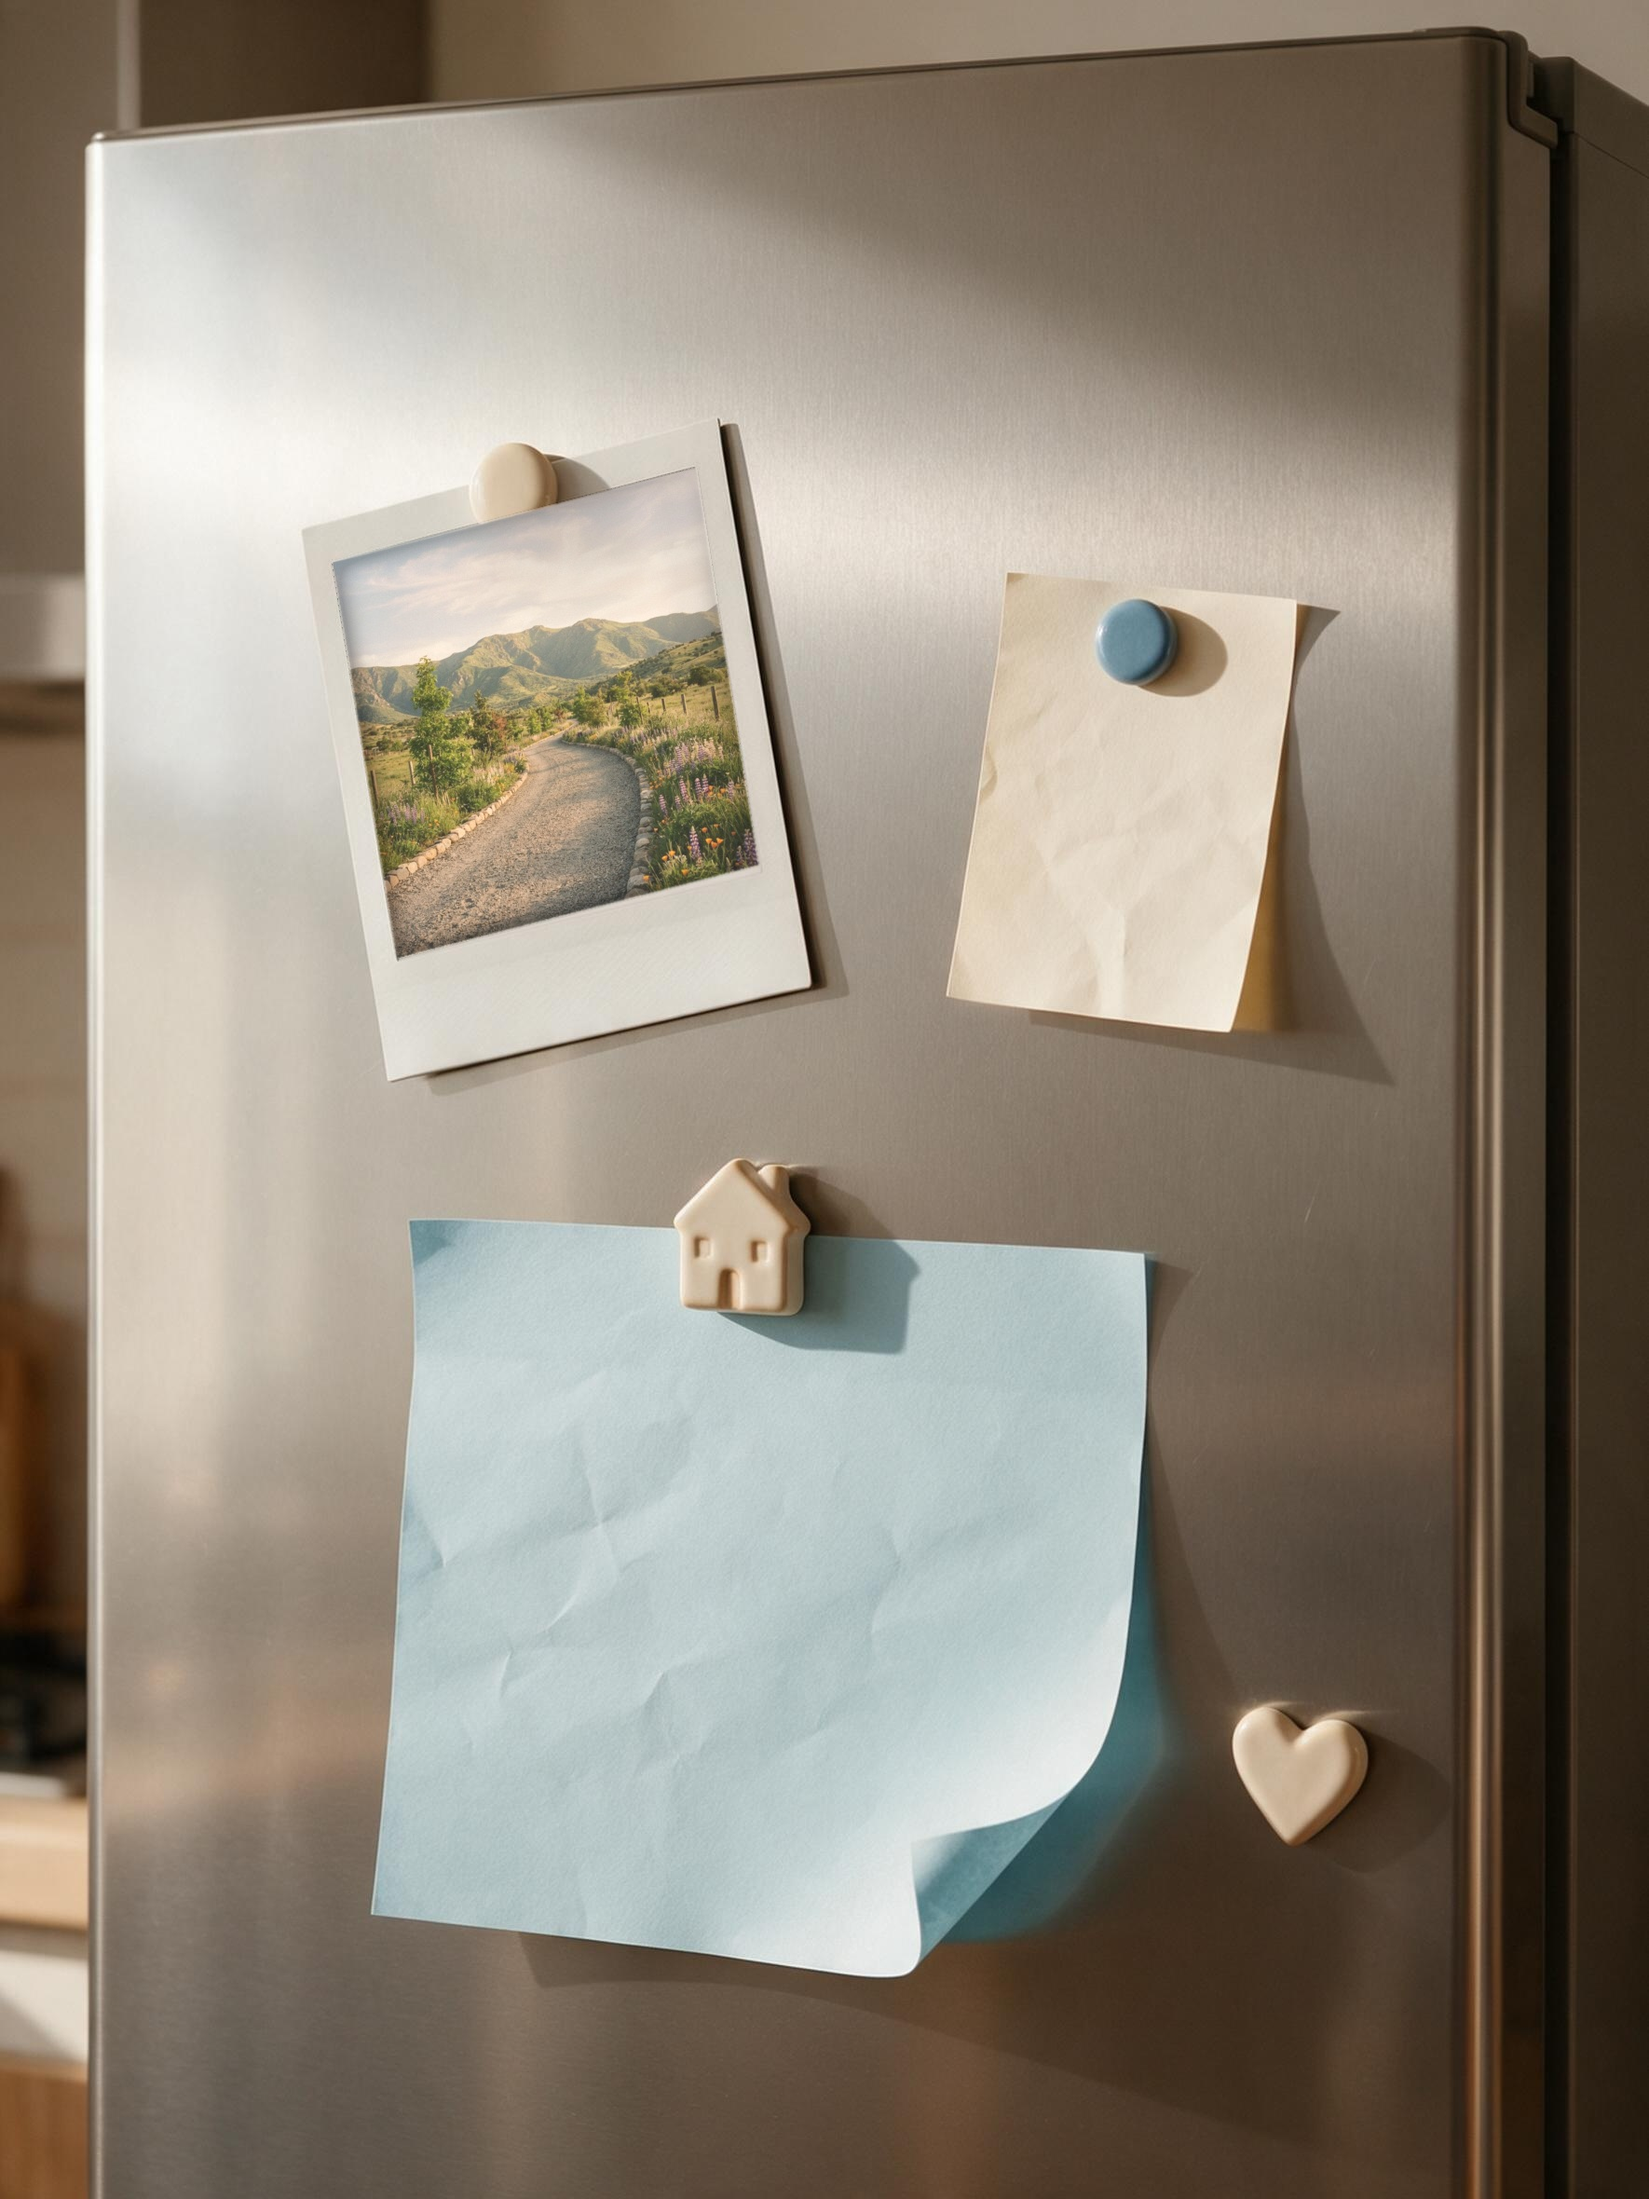
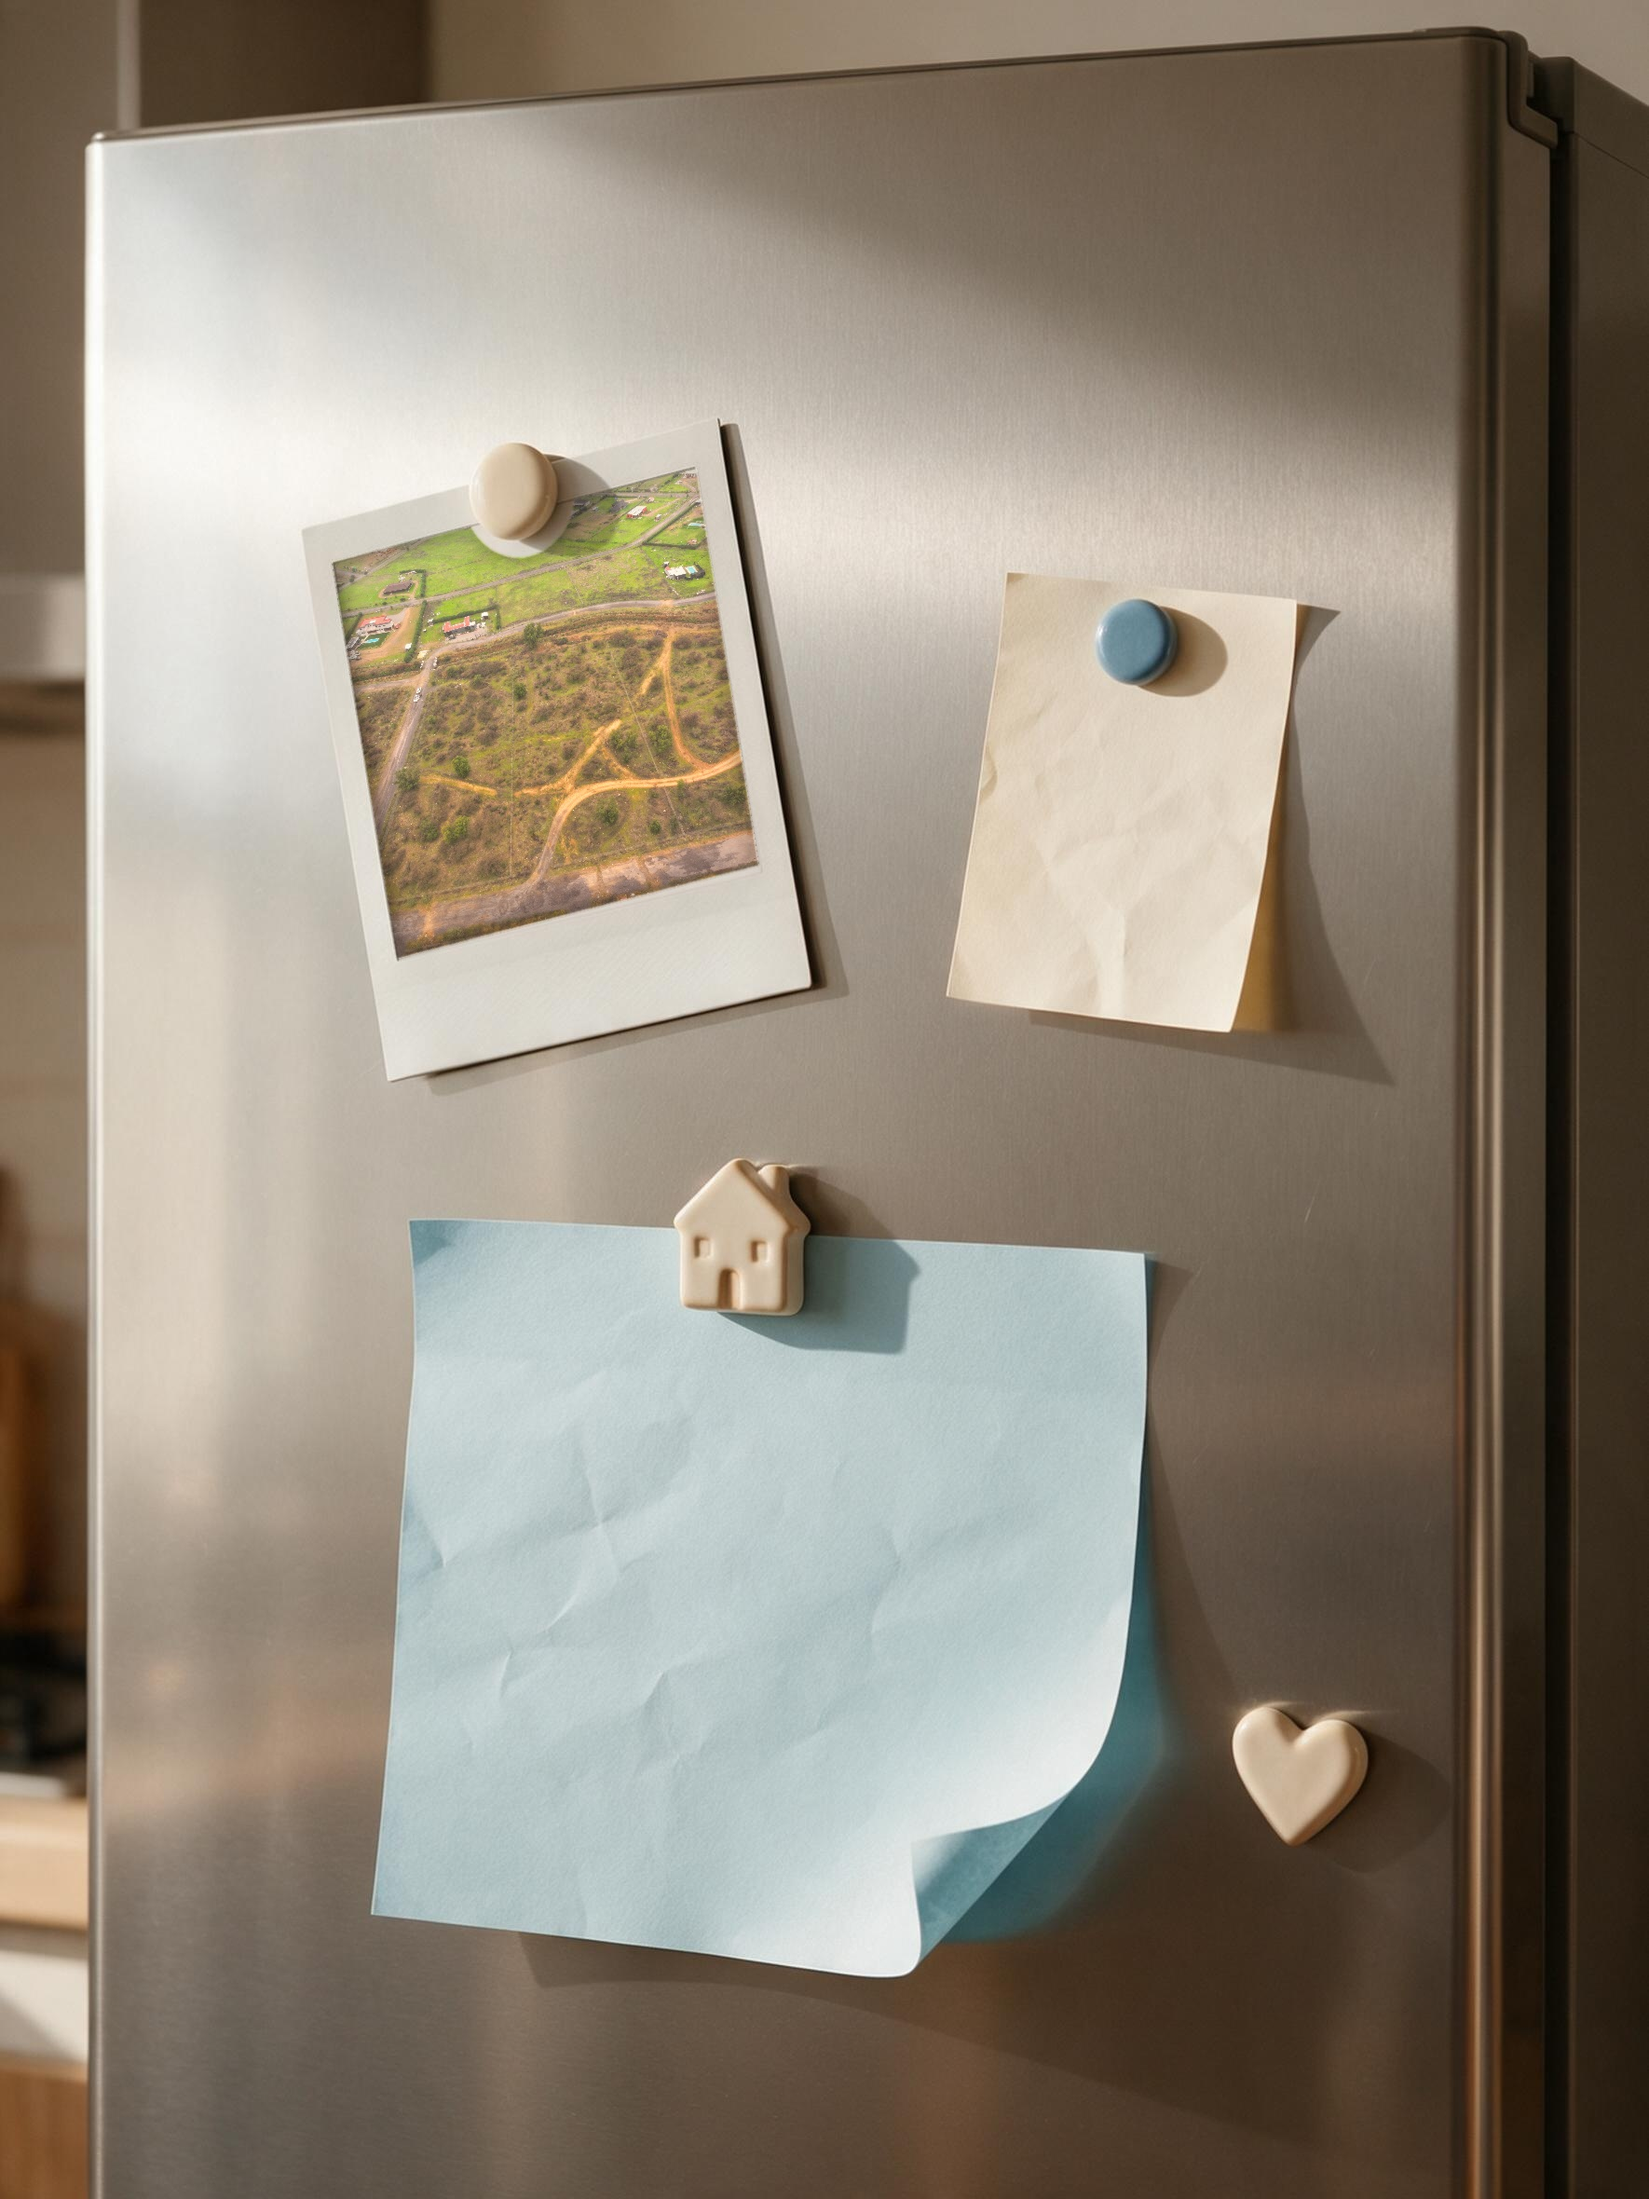
TIERRA CALMA: el iman queda sobre la polaroid, y la copia es la aerea real del dron
Diego: "el boton-iman tiene que quedar sobre la foto polaroid" y "que sea una
foto dron de Tierra Calma".

EL IMAN: su cuerpo se recorta de la mascara y asoma el original. Pero su SOMBRA
no se recorta — si se recortara quedaria un parche de papel blanco con una
sombra encima de la foto, al reves de lo que pasa de verdad. En vez de modelar
esa sombra, la copia HEREDA EL SOMBREADO DEL PROPIO PAPEL: se mide cuanto se
oscurece el papel respecto de su parte mas clara y se le aplica lo mismo. Asi
recibe de una vez el degradado de la escena y la sombra del iman, sin inventar
ninguna luz. Reemplaza al paso anterior de "luz de la escena", que hacia la
mitad del trabajo con el doble de codigo.

LA AEREA: toma DJI_20260807093558_0308_D del rodaje del 07-08 — la parcelacion
con sus deslindes y caminos de ripio y, al fondo, el llano con las casas
vecinas. No es la misma que st-12-10 (0312_D), por R-20, y se gradua con la
misma receta ya aprobada para esa story.

QA: 1 aviso, el deliberado de la slide 2. Re-subida sobre el mismo fileId.

Changed region(s): [[0.1864, 0.2165, 0.4661, 0.4331]]

diff --git a/scripts/tc-polaroid.py b/scripts/tc-polaroid.py
@@ -60,13 +60,25 @@ except Exception:
 
 OCT = pathlib.Path(RAIZ) / "public/assets/tierracalma/oct"
 ESCENA = OCT / "m-refri.jpg"
-# ⚠ `g-acceso` y no `f-fondo`: esta última ya estaba en `st-08-10`, y una foto no
-# se repite entre dos piezas del mismo mes (R-20).
-FOTO = OCT / "g-acceso.jpg"
+# ⭐ Diego, 25-09: *"y que sea una foto dron de Tierra Calma"*. La copia sale del
+# rodaje REAL del 07-08, no de una imagen generada.
+#
+# **La toma: `DJI_20260807093558_0308_D`.** Se eligió entre las 44 porque es la
+# que muestra la parcelación en sí —los deslindes, los caminos de ripio y, al
+# fondo, el llano con las casas vecinas—: es «este es el lugar» en un cuadro.
+# ⚠ No es la misma que `st-12-10`, que usa la `0312_D` (R-20).
+#
+# ⚠ El material del 07-08 es **HLG y sale plano**: sin gradar se ve lavado y
+# grisáceo, que es justo lo que el manual llama «no es el lugar».
+ORIGEN_DRON = pathlib.Path(RAIZ) / "raw/tierracalma/fotos-reales/dron/DJI_20260807093558_0308_D.JPG"
 SALIDA = OCT / "m-refri-foto.jpg"
 
 # Ventana de la polaroid, en orden TL · TR · BR · BL.
 VENTANA = [(356, 602), (748, 501), (815, 930), (425, 1030)]
+# ⭐ El botón-imán va POR ENCIMA de la copia (Diego, 25-09). Su cuerpo se recorta
+# de la máscara para que asome el original; su SOMBRA no se recorta, porque la
+# sombra tiene que caer sobre la foto — ver `sombreado` en `main()`.
+IMAN = {"centro": (556, 527), "radios": (60, 70)}
 
 
 def homografia(destino, origen):
@@ -84,6 +96,24 @@ def homografia(destino, origen):
     return np.linalg.solve(np.array(A, dtype=float), np.array(B, dtype=float))
 
 
+def gradua(im: Image.Image) -> Image.Image:
+    """Saca el HLG plano: contraste, calidez y verde, sin irse a la postal.
+
+    Misma receta que `tc-foto-dron-story.py`, que es la que Diego aprobó para la
+    aérea de `st-12-10`.
+    """
+    from PIL import ImageEnhance
+
+    a = np.clip(np.asarray(im).astype(float) / 255.0, 0, 1)
+    a = a * a * (3 - 2 * a) * 0.45 + a * 0.55       # S suave
+    a[:, :, 0] *= 1.045
+    a[:, :, 2] *= 0.975
+    im = Image.fromarray((np.clip(a, 0, 1) * 255).astype(np.uint8))
+    im = ImageEnhance.Color(im).enhance(1.28)
+    im = ImageEnhance.Contrast(im).enhance(1.10)
+    return ImageEnhance.Sharpness(im).enhance(1.15)
+
+
 def _caja(m: np.ndarray, r: int) -> np.ndarray:
     c = np.cumsum(np.cumsum(np.pad(np.asarray(m, float), ((r + 1, r), (r + 1, r))), 0), 1)
     k = 2 * r + 1
@@ -91,9 +121,11 @@ def _caja(m: np.ndarray, r: int) -> np.ndarray:
 
 
 def main() -> int:
-    for f in (ESCENA, FOTO):
+    for f in (ESCENA, ORIGEN_DRON):
         if not f.exists():
             print(f"✗ Falta {f}")
+            if f is ORIGEN_DRON:
+                print("  El rodaje del dron vive en raw/ y NO viaja en el repo — manual § 7.")
             return 1
     escena = Image.open(ESCENA).convert("RGB")
     W, H = escena.size
@@ -104,7 +136,7 @@ def main() -> int:
     lado_alto = np.hypot(*(np.subtract(VENTANA[3], VENTANA[0])))
     print(f"· ventana: {lado_ancho:.0f} × {lado_alto:.0f} px"
           f" · girada {np.degrees(np.arctan2(VENTANA[1][1] - VENTANA[0][1], VENTANA[1][0] - VENTANA[0][0])):.1f}°")
-    foto = Image.open(FOTO).convert("RGB")
+    foto = gradua(Image.open(ORIGEN_DRON).convert("RGB"))
     fw, fh = foto.size
     objetivo = lado_ancho / lado_alto
     if fw / fh > objetivo:                       # sobra ancho
@@ -143,23 +175,28 @@ def main() -> int:
         for x, y in VENTANA
     ]
     ImageDraw.Draw(mascara).polygon(adentro, fill=255)
+    # ⭐ El CUERPO del imán se recorta de la máscara: así asoma el original y el
+    # botón queda POR ENCIMA de la copia, que es lo que pidió Diego. Su sombra
+    # no se recorta — cae sobre la foto por el paso 4.
+    (ix, iy), (rx, ry) = IMAN["centro"], IMAN["radios"]
+    ImageDraw.Draw(mascara).ellipse([ix - rx, iy - ry, ix + rx, iy + ry], fill=0)
     mascara = mascara.filter(ImageFilter.GaussianBlur(1.1))
     m = np.asarray(mascara).astype(float) / 255.0
 
     capa = np.asarray(capa).astype(float)
     base = np.asarray(escena).astype(float)
 
-    # ── 4 · la luz de la escena, medida sobre el propio marco de la polaroid ─
-    # Se toma la luminancia del papel blanco alrededor de la ventana y se
-    # normaliza: la foto recibe el MISMO degradado que el papel que la sostiene.
+    # ── 4 · la copia HEREDA EL SOMBREADO DEL PAPEL ─────────────────────────
+    # El papel de la polaroid no está iluminado parejo, y además el imán le
+    # proyecta una sombra. En vez de inventar una luz, se mide cuánto se oscurece
+    # el propio papel respecto de su parte más clara y se le aplica lo mismo a la
+    # copia: así la foto recibe **el degradado de la escena y la sombra del imán**
+    # sin tener que modelarlos por separado.
     lum = base @ np.array([0.299, 0.587, 0.114])
-    suave = _caja(lum, 90)
-    anillo = (m > 0.02) & (m < 0.98)
-    del anillo
-    ref = float(np.median(suave[m > 0.5]))
-    luz = np.clip(suave / max(ref, 1e-6), 0.86, 1.14)
-    capa *= luz[:, :, None]
-    print(f"· luz de la escena: {luz[m > 0.5].min():.3f} – {luz[m > 0.5].max():.3f}")
+    papel = float(np.percentile(lum[m > 0.5], 90))
+    sombreado = np.clip(lum / max(papel, 1e-6), 0.55, 1.05)
+    capa *= sombreado[:, :, None]
+    print(f"· papel de referencia {papel:.0f} · sombreado {sombreado[m > 0.5].min():.2f}–{sombreado[m > 0.5].max():.2f}")
 
     # ── 5 · sombra de contacto del marco sobre la copia ─────────────────────
     # El marco está por encima: sombrea el canto de arriba y el de la izquierda.
@@ -184,7 +221,7 @@ def main() -> int:
 
     fuera = base * (1 - m[:, :, None]) + capa.clip(0, 255) * m[:, :, None]
     Image.fromarray(fuera.clip(0, 255).astype(np.uint8)).save(SALIDA, quality=94)
-    print(f"· {SALIDA.name}  ← {FOTO.name} impresa en la polaroid")
+    print(f"· {SALIDA.name}  ← {ORIGEN_DRON.name} impresa en la polaroid")
     return 0
 
 

diff --git a/clients/tierra-calma/BITACORA.md b/clients/tierra-calma/BITACORA.md
@@ -5,6 +5,43 @@
 
 ---
 
+## 2026-09-25 (15ª vuelta) — Diego Aguilar (p-29-10: el imán encima y la aérea real)
+
+**Qué se hizo:** *"El botón-imán tiene que quedar sobre la foto polaroid"* y *"que
+sea una foto dron de Tierra Calma"*.
+
+**1 · El imán, encima.** Al imprimir la copia en la ventana, la foto se había
+pintado por encima del imán. Ahora **el cuerpo del imán se recorta de la
+máscara** y asoma el original.
+
+⭐ **Pero su sombra NO se recorta, y ahí está lo interesante.** Si se recortara,
+quedaría un parche de papel blanco con una sombra dibujada encima de la foto —
+al revés de lo que pasa en la realidad, donde la sombra del imán cae **sobre la
+copia**. En vez de modelar esa sombra, la copia **hereda el sombreado del propio
+papel**: se mide cuánto se oscurece el papel respecto de su parte más clara y se
+le aplica lo mismo a la foto. Así la copia recibe de una vez **el degradado de la
+escena y la sombra del imán**, sin inventar ninguna luz. Reemplazó al paso de
+«luz de la escena» que tenía antes, que hacía la mitad del trabajo con el doble
+de código.
+
+**2 · La aérea real.** La copia sale del rodaje del **07-08**, toma
+`DJI_20260807093558_0308_D`: la parcelación con sus deslindes y caminos de ripio
+y, al fondo, el llano con las casas vecinas. Es «este es el lugar» en un cuadro.
+
+⚠ No es la misma toma que `st-12-10`, que usa la `0312_D` (R-20). Y se gradúa con
+**la misma receta ya aprobada** para esa story (`tc-foto-dron-story.py`): el
+material del 07-08 es HLG y sin gradar se ve lavado y grisáceo.
+
+**Dónde quedó:** `scripts/tc-polaroid.py` (ahora lee el RAW del dron y respeta el
+imán), `m-refri-foto.jpg` regenerado. **QA: 1 aviso**, el deliberado de la slide
+2. Re-subida sobre el mismo `fileId`.
+
+**Qué sigue:** esperar la vuelta de Diego.
+
+**Abierto:** sin cambios.
+
+---
+
 ## 2026-09-25 (14ª vuelta) — Diego Aguilar (p-29-10: la polaroid, impresa de verdad)
 
 **Qué se hizo:** *"La foto polaroid que quede real y no sobrepuesta, que se vea

diff --git a/clients/tierra-calma/APRENDIZAJES.md b/clients/tierra-calma/APRENDIZAJES.md
@@ -101,6 +101,8 @@ vendemos sueños: mostramos evidencia»*. Informe de julio: alcance +110 %, enga
 - **R-50** · Cuando la **referencia y el brief se contradicen, manda el brief** — _25-09, `st-22-10`: la referencia pedía campo blanco opaco y el brief glassmorphism sobre foto_ · ✔×1
 - **R-52** · Un objeto de la escena generada **se mide, no se supone**: la ventana de la polaroid está a **−14,4°** y se le había puesto −8°; seis grados bastan para que la foto se salga por un canto y lea como «pegada encima». Y si el objeto tiene perspectiva, no es un `rotate()` de CSS: se imprime en el archivo con una homografía — _Diego, 25-09, `p-29-10`_ · ✔×1
 - **R-53** · Lo que integra una foto dentro de un objeto, por orden de impacto: **geometría** · sombra de contacto del marco · la **luz de la escena** medida sobre el propio objeto · acabado de copia (menos micro-contraste, negros levantados, blanco cálido) · **grano** igual al de la escena — _25-09_ · ✔×1
+- **R-54** · Al componer sobre una escena generada, **lo que está delante se recorta de la máscara y lo que proyecta sombra NO**: la copia debe **heredar el sombreado del propio papel** (medido contra su parte más clara), no una luz inventada. Así recibe de una vez el degradado de la escena y la sombra del objeto — _Diego, 25-09, el imán sobre la polaroid_ · ✔×1
+- **R-55** · La foto de la polaroid es **aérea REAL del rodaje del 07-08**, gradada con la receta de `tc-foto-dron-story.py` (el material es HLG y sale lavado) — _Diego, 25-09_ · ✔×1
 - **R-51** · Cada palabra del visual del brief es **una instrucción, no un adjetivo**: «glassmorphism» es `backdropFilter` de verdad, no un gris translúcido; «imagen sutil» es velo alto, no una foto más — _25-09_ · ✔×1
 
 ## 5. Excepciones
